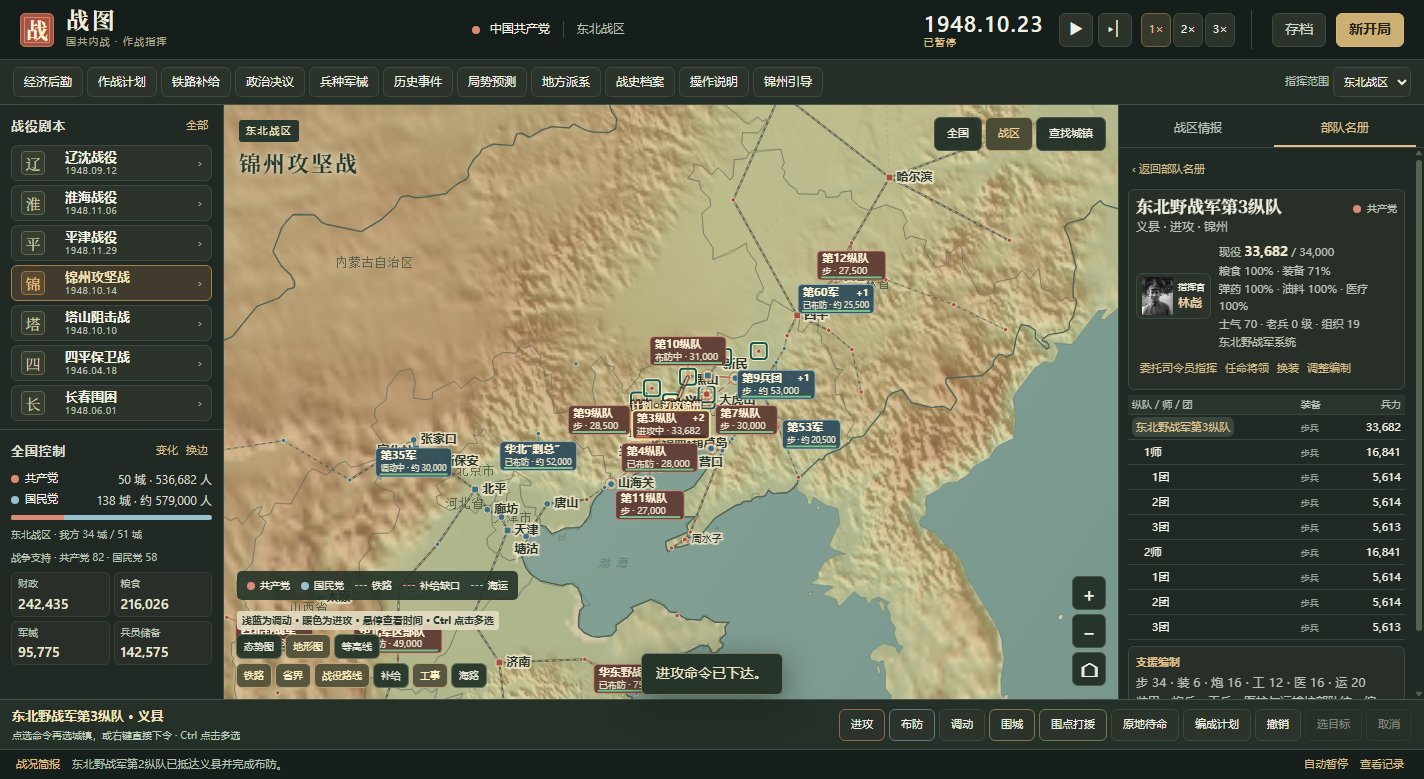
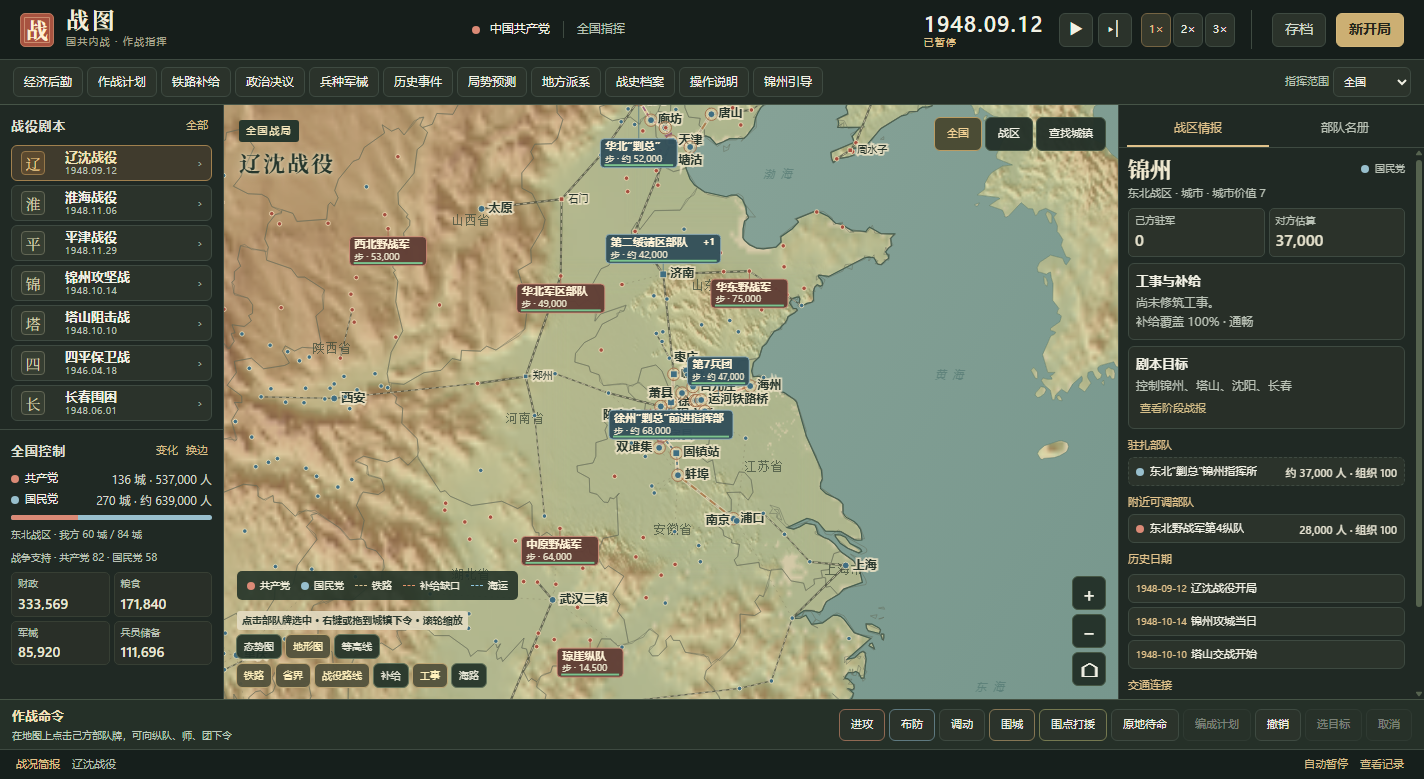
地图加密：新增 218 个县级城镇（406 节点），自动接入陆路网络并按最近历史节点继承归属

diff --git a/data.js b/data.js
@@ -252,6 +252,276 @@
   }
   const links = Object.keys(routeTypes).map(pair => pair.split('|'));
 
+  // 补充县级城镇：铁路干线之外也铺满节点。每座新城接入最近的两座城镇（陆路），
+  // 其中交通枢纽另加一条铁路支线，避免“不在铁路边就没有城市”。
+  const railIds = new Set(railCorridors.flatMap(path => path.split(' ')));
+  const extraCities = [
+    // 东北
+    ['shuangcheng','双城',126.31,45.38,'northeast','plain',2],
+    ['acheng','阿城',126.98,45.54,'northeast','plain',2],
+    ['yilan-hl','依兰',129.58,46.32,'northeast','plain',1],
+    ['fangzheng','方正',128.83,45.85,'northeast','plain',1],
+    ['ningan','宁安',129.47,44.34,'northeast','plain',2],
+    ['suifenhe','绥芬河',131.16,44.41,'northeast','mountain',2],
+    ['tumen','图们',129.84,42.97,'northeast','plain',2],
+    ['jiaohe','蛟河',127.34,43.72,'northeast','mountain',1],
+    ['huadian','桦甸',126.75,42.97,'northeast','mountain',1],
+    ['panshi','磐石',126.06,42.95,'northeast','mountain',1],
+    ['liuhe','柳河',125.74,42.28,'northeast','mountain',1],
+    ['qingyuan','清原',124.92,42.10,'northeast','mountain',1],
+    ['xinbin','新宾',125.04,41.73,'northeast','mountain',1],
+    ['huanren','桓仁',125.36,41.27,'northeast','mountain',1],
+    ['kuandian','宽甸',124.78,40.73,'northeast','mountain',1],
+    ['fengcheng','凤城',124.07,40.45,'northeast','mountain',2],
+    ['xiuyan','岫岩',123.28,40.29,'northeast','mountain',1],
+    ['gaizhou','盖州',122.35,40.40,'northeast','plain',2],
+    ['taean','台安',122.43,41.39,'northeast','plain',1],
+    ['liaozhong','辽中',122.73,41.51,'northeast','plain',1],
+    ['kangping','康平',123.35,42.74,'northeast','plain',1],
+    ['xifeng','西丰',124.72,42.74,'northeast','plain',1],
+    ['lishu','梨树',124.33,43.31,'northeast','plain',2],
+    ['shuangliao','双辽',123.50,43.52,'northeast','plain',1],
+    ['qianguo','前郭',124.82,45.12,'northeast','plain',1],
+    ['yushu','榆树',126.53,44.84,'northeast','plain',2],
+    ['wuchang','五常',127.15,44.93,'northeast','plain',2],
+    ['shulan','舒兰',126.95,44.41,'northeast','plain',1],
+    ['jiutai','九台',125.84,44.15,'northeast','plain',1],
+    ['nongan','农安',125.18,44.43,'northeast','plain',1],
+    ['changling','长岭',123.97,44.28,'northeast','plain',1],
+    ['tongyu','通榆',123.09,44.81,'northeast','plain',1],
+    ['keshiketeng','经棚（克什克腾）',117.55,43.26,'northeast','plain',1],
+    // 华北
+    ['tongzhou','通州',116.66,39.91,'north','plain',2],
+    ['liangxiang','良乡',116.14,39.73,'north','plain',1],
+    ['zhuoxian','涿县',115.97,39.49,'north','plain',2],
+    ['guan','固安',116.30,39.44,'north','plain',1],
+    ['yongqing','永清',116.50,39.32,'north','plain',1],
+    ['baxian','霸县',116.40,39.12,'north','plain',1],
+    ['renqiu','任丘',116.10,38.71,'north','plain',1],
+    ['hejian','河间',116.10,38.44,'north','plain',1],
+    ['xianxian','献县',116.13,38.19,'north','plain',1],
+    ['cangxian','沧县',116.87,38.31,'north','plain',2],
+    ['qingxian','青县',116.83,38.58,'north','plain',1],
+    ['jinghai','静海',116.93,38.95,'north','plain',1],
+    ['wuqing','武清',117.06,39.38,'north','plain',2],
+    ['baodi','宝坻',117.31,39.72,'north','plain',1],
+    ['jixian','蓟县',117.41,40.05,'north','mountain',1],
+    ['zunhua','遵化',117.96,40.19,'north','mountain',1],
+    ['qianan','迁安',118.70,40.01,'north','plain',1],
+    ['luanxian','滦县',118.70,39.75,'north','plain',1],
+    ['laoting','乐亭',118.90,39.43,'north','plain',1],
+    ['funing','抚宁',119.24,39.88,'north','plain',1],
+    ['jining','集宁',113.10,41.03,'north','plain',2],
+    ['fengzhen','丰镇',113.16,40.44,'north','plain',1],
+    ['liangcheng','凉城',112.50,40.53,'north','plain',1],
+    ['wuchuan','武川',111.46,41.10,'north','plain',1],
+    ['xinghe','兴和',113.83,40.87,'north','plain',1],
+    ['sarqi','萨拉齐',110.65,40.55,'north','plain',1],
+    // 山东
+    ['pingyuan','平原',116.43,37.16,'east','plain',1],
+    ['yucheng','禹城',116.64,36.93,'east','plain',1],
+    ['taian','泰安',117.09,36.19,'east','mountain',2],
+    ['feicheng','肥城',116.77,36.25,'east','plain',1],
+    ['yanzhou','兖州',116.83,35.55,'east','plain',2],
+    ['qufu','曲阜',116.99,35.58,'east','plain',1],
+    ['zoucheng','邹县',116.97,35.40,'east','plain',1],
+    ['tengxian','滕县',117.15,35.09,'east','plain',2],
+    ['yixian-sd','峄县',117.57,34.78,'east','plain',1],
+    ['tancheng','郯城',118.35,34.61,'east','plain',1],
+    ['mengyin','蒙阴',117.94,35.71,'east','mountain',1],
+    ['yishui','沂水',118.63,35.79,'east','mountain',1],
+    ['juxian','莒县',118.84,35.58,'east','plain',1],
+    ['zhucheng','诸城',119.41,35.99,'east','plain',1],
+    ['gaomi','高密',119.76,36.38,'east','plain',2],
+    ['jiaoxian','胶县',120.03,36.27,'east','plain',2],
+    ['jimo','即墨',120.45,36.39,'east','plain',1],
+    ['penglai','蓬莱',120.76,37.81,'east','port',1],
+    ['yexian','掖县',119.94,37.18,'east','plain',1],
+    ['pingdu','平度',119.96,36.79,'east','plain',1],
+    ['yidu','益都',118.48,36.70,'east','plain',2],
+    ['guangrao','广饶',118.40,37.05,'east','plain',1],
+    ['huimin','惠民',117.51,37.49,'east','plain',1],
+    // 华中
+    ['chaoxian','巢县',117.87,31.60,'east','plain',1],
+    ['wuwei-ah','无为',117.91,31.30,'east','plain',1],
+    ['lujiang','庐江',117.29,31.25,'east','plain',1],
+    ['tongcheng','桐城',116.95,31.05,'east','plain',1],
+    ['anqing','安庆',117.05,30.53,'east','port',2],
+    ['qianshan','潜山',116.58,30.63,'east','mountain',1],
+    ['liuan','六安',116.51,31.75,'east','plain',2],
+    ['huoshan','霍山',116.33,31.39,'east','mountain',1],
+    ['shouxian','寿县',116.78,32.58,'east','plain',1],
+    ['fengtai','凤台',116.72,32.71,'east','plain',1],
+    ['fuyang','阜阳',115.81,32.89,'east','plain',2],
+    ['bozhou','亳州',115.78,33.87,'east','plain',2],
+    ['guoyang','涡阳',116.22,33.51,'east','plain',1],
+    ['mengcheng','蒙城',116.56,33.26,'east','plain',1],
+    // 中原与中南
+    ['huangpi','黄陂',114.37,30.88,'central','plain',1],
+    ['xiaogan','孝感',113.92,30.92,'central','plain',2],
+    ['yingcheng','应城',113.58,30.93,'central','plain',1],
+    ['anlu','安陆',113.69,31.26,'central','plain',1],
+    ['suixian','随县',113.38,31.69,'central','plain',1],
+    ['zaoyang','枣阳',112.77,32.13,'central','plain',1],
+    ['yicheng','宜城',112.26,31.72,'central','plain',1],
+    ['gucheng','谷城',111.65,32.26,'central','plain',1],
+    ['laohekou','老河口',111.67,32.39,'central','plain',1],
+    ['jingmen','荆门',112.20,31.04,'central','plain',1],
+    ['dangyang','当阳',111.79,30.82,'central','plain',1],
+    ['jingzhou','荆州',112.24,30.33,'central','port',2],
+    ['gongan','公安',112.23,30.06,'central','plain',1],
+    ['jianli','监利',112.90,29.82,'central','plain',1],
+    ['jiayu','嘉鱼',113.94,29.97,'central','plain',1],
+    ['puqi','蒲圻（赤壁）',113.90,29.72,'central','plain',1],
+    ['xianning','咸宁',114.33,29.85,'central','plain',1],
+    ['yangxin','阳新',115.21,29.84,'central','mountain',1],
+    ['macheng','麻城',115.03,31.18,'central','mountain',1],
+    ['huanggang','黄冈',114.90,30.45,'central','plain',1],
+    // 华南
+    ['xiangtan','湘潭',112.94,27.85,'south','plain',2],
+    ['xiangxiang','湘乡',112.53,27.73,'south','plain',1],
+    ['ningxiang','宁乡',112.55,28.25,'south','plain',1],
+    ['liuyang','浏阳',113.64,28.14,'south','plain',1],
+    ['liling','醴陵',113.50,27.65,'south','plain',1],
+    ['youxian','攸县',113.35,27.00,'south','plain',1],
+    ['hengshan','衡山',112.87,27.23,'south','plain',1],
+    ['leiyang','耒阳',112.86,26.42,'south','plain',1],
+    ['qiyang','祁阳',111.84,26.58,'south','plain',1],
+    ['lingling','零陵（永州）',111.61,26.42,'south','plain',2],
+    ['daoxian','道县',111.60,25.53,'south','mountain',1],
+    ['chenxian','郴县',113.01,25.77,'south','plain',2],
+    ['yizhang','宜章',112.95,25.40,'south','mountain',1],
+    ['xinhua','新化',111.30,27.73,'south','mountain',1],
+    ['longhui','隆回',111.03,27.11,'south','mountain',1],
+    ['wugang','武冈',110.63,26.73,'south','mountain',1],
+    ['zhijiang','芷江',109.68,27.44,'south','mountain',1],
+    ['yuanling','沅陵',110.39,28.46,'south','mountain',1],
+    // 西南
+    ['bishan','璧山',106.23,29.59,'southwest','plain',1],
+    ['tongliang','铜梁',106.05,29.85,'southwest','plain',1],
+    ['hechuan','合川',106.27,29.97,'southwest','plain',2],
+    ['jiangjin','江津',106.25,29.29,'southwest','plain',1],
+    ['yongchuan','永川',105.93,29.36,'southwest','plain',1],
+    ['qijiang','綦江',106.65,29.03,'southwest','mountain',1],
+    ['fuling','涪陵',107.39,29.70,'southwest','port',2],
+    ['fengdu','丰都',107.73,29.86,'southwest','port',1],
+    ['zhongxian','忠县',108.04,30.30,'southwest','port',1],
+    ['kaixian','开县',108.39,31.16,'southwest','plain',1],
+    ['yunyang','云阳',108.70,30.93,'southwest','port',1],
+    ['fengjie','奉节',109.46,31.02,'southwest','port',1],
+    ['daxian','达县',107.50,31.21,'southwest','plain',2],
+    ['bazhong','巴中',106.75,31.87,'southwest','mountain',1],
+    ['jiange','剑阁',105.52,32.29,'southwest','mountain',1],
+    ['langzhong','阆中',106.00,31.58,'southwest','plain',1],
+    ['nanchong','南充',106.11,30.84,'southwest','plain',2],
+    ['suining','遂宁',105.59,30.53,'southwest','plain',1],
+    ['shehong','射洪',105.39,30.87,'southwest','plain',1],
+    ['santai','三台',105.09,31.10,'southwest','plain',1],
+    ['jiangyou','江油',104.75,31.78,'southwest','mountain',1],
+    ['maoxian','茂县',103.85,31.68,'southwest','mountain',1],
+    // 西北
+    ['xianyang','咸阳',108.71,34.33,'northwest','plain',2],
+    ['wugong','武功',108.20,34.26,'northwest','plain',1],
+    ['qianxian','乾县',108.24,34.53,'northwest','plain',1],
+    ['jingyang','泾阳',108.84,34.53,'northwest','plain',1],
+    ['sanyuan','三原',108.94,34.61,'northwest','plain',1],
+    ['lintong','临潼',109.21,34.37,'northwest','plain',1],
+    ['lantian','蓝田',109.32,34.15,'northwest','mountain',1],
+    ['weinan','渭南',109.50,34.50,'northwest','plain',2],
+    ['huayin','华阴',110.09,34.57,'northwest','plain',1],
+    ['tongguan','潼关',110.25,34.54,'northwest','plain',2],
+    ['dali-sn','大荔',109.94,34.80,'northwest','plain',1],
+    ['hancheng','韩城',110.45,35.48,'northwest','plain',1],
+    ['fuping','富平',109.18,34.75,'northwest','plain',1],
+    ['tongchuan','同官（铜川）',109.09,35.09,'northwest','mountain',1],
+    ['fuxian','鄜县（富县）',109.38,35.99,'northwest','plain',1],
+    ['ganquan','甘泉',109.35,36.28,'northwest','mountain',1],
+    ['qingjian','清涧',110.12,37.09,'northwest','mountain',1],
+    ['mizhi','米脂',110.18,37.76,'northwest','plain',1],
+    ['shenmu','神木',110.50,38.84,'northwest','plain',1],
+    ['jingbian','靖边',108.79,37.60,'northwest','plain',1],
+    ['dingbian','定边',107.60,37.59,'northwest','plain',1],
+    ['yanchi','盐池',107.41,37.78,'northwest','plain',1],
+    ['qingyang','庆阳',107.64,36.03,'northwest','plain',1],
+    ['xunyi','旬邑',108.33,35.11,'northwest','plain',1],
+    ['binxian','邠县（彬县）',108.09,35.04,'northwest','plain',1],
+    ['changwu','长武',107.80,35.21,'northwest','plain',1],
+    ['longxian','陇县',106.86,34.90,'northwest','mountain',1],
+    ['fengxiang','凤翔',107.39,34.52,'northwest','plain',1],
+    ['meixian','眉县',107.75,34.27,'northwest','plain',1],
+    ['fengxian','凤县',106.52,33.91,'northwest','mountain',1],
+    ['liuba','留坝',106.92,33.62,'northwest','mountain',1],
+    ['chenggu','城固',107.33,33.15,'northwest','plain',1],
+    ['yangxian','洋县',107.55,33.22,'northwest','plain',1],
+    ['ankang','安康',109.03,32.69,'northwest','port',2],
+    ['hanyin','汉阴',108.51,32.89,'northwest','plain',1],
+    ['shiquan','石泉',108.25,33.04,'northwest','mountain',1],
+    ['ziyang','紫阳',108.54,32.52,'northwest','mountain',1],
+    ['xunyang','旬阳',109.37,32.83,'northwest','mountain',1],
+    // 甘宁绥
+    ['yuzhong','榆中',104.11,35.85,'northwest','plain',1],
+    ['dingxi','定西',104.63,35.58,'northwest','plain',1],
+    ['longxi','陇西',104.63,35.00,'northwest','plain',1],
+    ['gangu','甘谷',105.33,34.73,'northwest','plain',1],
+    ['qinan','秦安',105.67,34.86,'northwest','plain',1],
+    ['qingshui','清水',106.14,34.75,'northwest','plain',1],
+    ['pingliang','平凉',106.68,35.54,'northwest','plain',2],
+    ['jingchuan','泾川',107.37,35.33,'northwest','plain',1],
+    ['jingning','静宁',105.73,35.52,'northwest','plain',1],
+    ['guyuan','固原',106.24,36.00,'northwest','plain',2],
+    ['haiyuan','海原',105.65,36.56,'northwest','plain',1],
+    ['tongxin','同心',105.91,36.98,'northwest','plain',1],
+    ['zhongning','中宁',105.68,37.49,'northwest','plain',1],
+    ['zhongwei','中卫',105.19,37.51,'northwest','plain',1],
+    ['wuzhong','吴忠',106.20,37.99,'northwest','plain',1],
+    ['wuyuan','五原',108.27,41.10,'north','plain',1],
+    ['linhe','临河',107.39,40.75,'north','plain',1],
+    ['tuoketuo','托克托',111.19,40.28,'north','plain',1],
+    // 台湾
+    ['hsinchu','新竹',120.97,24.80,'taiwan','plain',3],
+    ['miaoli','苗栗',120.82,24.56,'taiwan','mountain',1],
+    ['changhua','彰化',120.54,24.08,'taiwan','plain',2],
+    ['chiayi','嘉义',120.45,23.48,'taiwan','plain',2],
+    ['pingtung','屏东',120.49,22.67,'taiwan','plain',1],
+    ['yilan','宜兰',121.75,24.75,'taiwan','plain',1],
+  ];
+  const railTowns = new Set([
+    'shuangcheng','acheng','ningan','suifenhe','jiaohe','panshi','lishu','shuangliao','yushu','wuchang',
+    'jiutai','nongan','tongzhou','liangxiang','zhuoxian','cangxian','jinghai','wuqing','taian','yanzhou',
+    'tengxian','gaomi','jiaoxian','yidu','xiaogan','xiangtan','xiangxiang','liling','hengshan','lingling',
+    'chenxian','jiangjin','yongchuan','fuling','nanchong','xianyang','weinan','huayin','tongguan','dali-sn',
+    'fuping','tongchuan','fuxian','mizhi','guyuan','zhongning','zhongwei','wuzhong','linhe','hsinchu',
+    'changhua','chiayi',
+  ]);
+  const distance = (a, b) => Math.hypot(a.lon - b.lon, (a.lat - b.lat) * 1.25);
+  const linkKey = (a, b) => [a, b].sort().join('|');
+  const addLink = (a, b, type) => {
+    const key = linkKey(a, b);
+    if (a === b || routeTypes[key]) return;
+    routeTypes[key] = type;
+    links.push([a, b]);
+  };
+  for (const [id, name, lon, lat, region, terrain, value] of extraCities) {
+    cities.push({ id, name, lon, lat, region, terrain, value });
+  }
+  for (const [id] of extraCities) {
+    const city = cities.find(item => item.id === id);
+    const others = cities.filter(item => item.id !== id);
+    const nearest = others
+      .map(other => ({ other, gap: distance(city, other) }))
+      .sort((a, b) => a.gap - b.gap)
+      .slice(0, 2);
+    for (const { other } of nearest) addLink(id, other.id, 'land');
+    if (railTowns.has(id)) {
+      const rail = others
+        .filter(other => railIds.has(other.id) || railTowns.has(other.id))
+        .map(other => ({ other, gap: distance(city, other) }))
+        .sort((a, b) => a.gap - b.gap)[0];
+      if (rail && rail.gap < 1.6) addLink(id, rail.other.id, 'rail');
+    }
+  }
+
+
   const sourcesById = {
     y1945: ['《中国共产党大事记·1945年》','https://cpc.people.com.cn/GB/64162/64164/4416000.html'],
     y1946: ['《中国共产党大事记·1946年》','https://cpc.people.com.cn/GB/64162/64164/4416003.html'],
@@ -684,6 +954,32 @@
   for (const event of events) {
     if (event.city && event.side) addControl(event.date,event.side,event.city);
   }
+  // 新城按同一日期最近的原生城镇继承归属，随战线推移而改变，避免所有新节点默认落到一方。
+  {
+    const extraIds = new Set(extraCities.map(([id]) => id));
+    const cityById = new Map(cities.map(city => [city.id, city]));
+    const cumulative = new Map();
+    const dates = [...ownershipByDate.keys()].sort();
+    for (const date of dates) {
+      const owners = ownershipByDate.get(date);
+      for (const [id, side] of owners) if (!extraIds.has(id)) cumulative.set(id, side);
+      const known = [...cumulative].filter(([id]) => !extraIds.has(id));
+      for (const id of extraIds) {
+        const city = cityById.get(id);
+        let best = null;
+        let bestGap = Infinity;
+        for (const [otherId] of known) {
+          const other = cityById.get(otherId);
+          if (!other) continue;
+          const gap = (other.lon - city.lon) ** 2 + ((other.lat - city.lat) * 1.25) ** 2;
+          if (gap < bestGap) { bestGap = gap; best = otherId; }
+        }
+        const side = best ? cumulative.get(best) : 'roc';
+        owners.set(id, side);
+        cumulative.set(id, side);
+      }
+    }
+  }
   const anchors = [...ownershipByDate].sort(([a],[b]) => a.localeCompare(b)).map(([date,owners]) => ({
     date,
     ccp:[...owners].filter(([,side]) => side === 'ccp').map(([city]) => city),
@@ -709,6 +1005,7 @@
     '阶段性控制在城市节点上简化了城乡、驻军与民政差异。大连、旅顺在苏军军管期间各有民政机构，1950年12月另设旅大市。',
     '桂系、鲁系、川系、东北军为地方军事谱系标签，游戏中的部队归属仍遵循两方编制与场景。',
     '弹药、油料、医疗物资、工事等级、部队支援编制、士气与老兵经验为游戏参数。铁路补给按「后方库存—铁路线—车站—前线」的简化模型计算，地图上的运输瓶颈表示运量紧张，并不等于史料中的实际运量。',
+    '补充的县级城镇采用当时的县名或并列今名，坐标与连线为游戏示意；每座新城按同一日期最近的历史城镇继承归属，因此战线附近的归属会随后续节点变化，而不代表逐村逐镇的精确控制。',
     '剧本中的物资系数与空中支援用于表达各战役的补给条件差异，不表示真实库存或出动架次。工事名称与规模参照当时的野战筑城做法，具体数值服务于玩法。',
     '金门和澎湖计入离岛目标。大陆胜利以全部大陆和海南可玩节点结算。',
   ];
@@ -802,3 +1099,4 @@
     {title:'津浦铁路固镇老站',url:guzhenRail});
   globalThis.CivilWarData = {cities,links,routeTypes,battleLayers,historyCheckpoints,leaders,units,scenarios,events,anchors,sources,groups,capitals,land,notes};
 })();
+

diff --git a/engine.js b/engine.js
@@ -1611,10 +1611,8 @@
         let target;
         let best = -Infinity;
         // 边境越空虚，出击门槛越高：先稳住战线，再考虑扩张。
-        const cautionFront = 1 + (pressure[army.side] ?? 0) * 0.6;
-        // 主要边境城镇大多空虚时停止扩张，先让部队回去驻防。
-        const overstretched = (pressure[army.side] ?? 0) > 0.65;
-        if (averageOrg >= 55 && !overstretched) {
+        const cautionFront = 1 + (pressure[army.side] ?? 0) * 0.8;
+        if (averageOrg >= 55) {
           for (const neighbor of targets) {
             const node = map.cities.get(neighbor);
             const garrison = garrisons.get(neighbor) ?? [];

diff --git a/使用说明.md b/使用说明.md
@@ -50,7 +50,7 @@
 - 战斗结束的战报会列出双方投入兵力、阵亡与减员、伤员、俘虏和缴获，并记录士气涨落与老兵经验。伤员在己方城镇会逐步回补，回到部队。
 - 「战况记录」顶部显示本方的累计交战次数、获胜次数、伤亡、伤员、俘虏和缴获军械。
 - 顶部的兵种军械可切换步兵、炮兵或机动装备，换装会使用军械和财政。历史事件面板可切换历史与动态模式，并选定具体史实节点。
-- 地图左下角可选择态势图、地形图、等高线，并单独开关铁路、省界、战役路线、补给、工事和海运。左侧「变化」可以追踪城镇易手。
+- 地图有 406 个城镇节点，铁路干线之外的县城也按陆路接入。可切换态势、地形和等高线，独立开关铁路、省界、战役路线、补给、工事和海运。省界采用现代地理参照，战役路线按史料示意。
 - 选中部队后，地图分别标出可调动和可进攻的目标，悬停可以查看路线、预计耗时或不可达原因。缩放到全国查看战区汇总，放大查看铁路支线、车站和师级部队，点击带有加号的部队牌可查看同处部队。
 - 底部战况简报可查看事发日期、地点和附近部队。可针对城镇易手、战斗开始、己方抵达设置自动暂停。
 - 全国和战区按钮会改变指挥权限并移动地图视角。其他战区继续随日期运转。

diff --git a/README.md b/README.md
@@ -20,13 +20,15 @@
 
 ![铁路补给](docs/supply.png)
 
+![全国战局（406 个城镇节点）](docs/national.png)
+
 ![战区地图与战役](docs/map.png)
 
 ## 主要功能
 
 | 模块 | 说明 |
 | --- | --- |
-| 全国 / 战区双轨 | 全国 188 个节点与战区指挥同步运行，可暂停、加速，随时换边。 |
+| 全国 / 战区双轨 | 全国 406 个城镇节点（铁路干线外也铺满县城）与战区指挥同步运行，可暂停、加速，随时换边。 |
 | 地图下令 | 点击部队牌选中，右键相邻敌城进攻、右键己方城镇调动，也可拖动部队牌；纵队、师、团都能单独下令。 |
 | 作战计划 | Ctrl / Shift 多选部队，选择作战决心（突击目标、守备战线、沿战线进攻、后撤至战线），指定目标与战线；统一预览后一键执行、暂停、撤销或委任司令员。 |
 | 组织度与多日战役 | 部队牌底部显示组织度。战斗按日消耗组织度并有战斗宽度限制，组织度先耗尽的一方退出战斗；守军通常撤退而非被全歼，只有失去退路才会成建制被俘。 |
